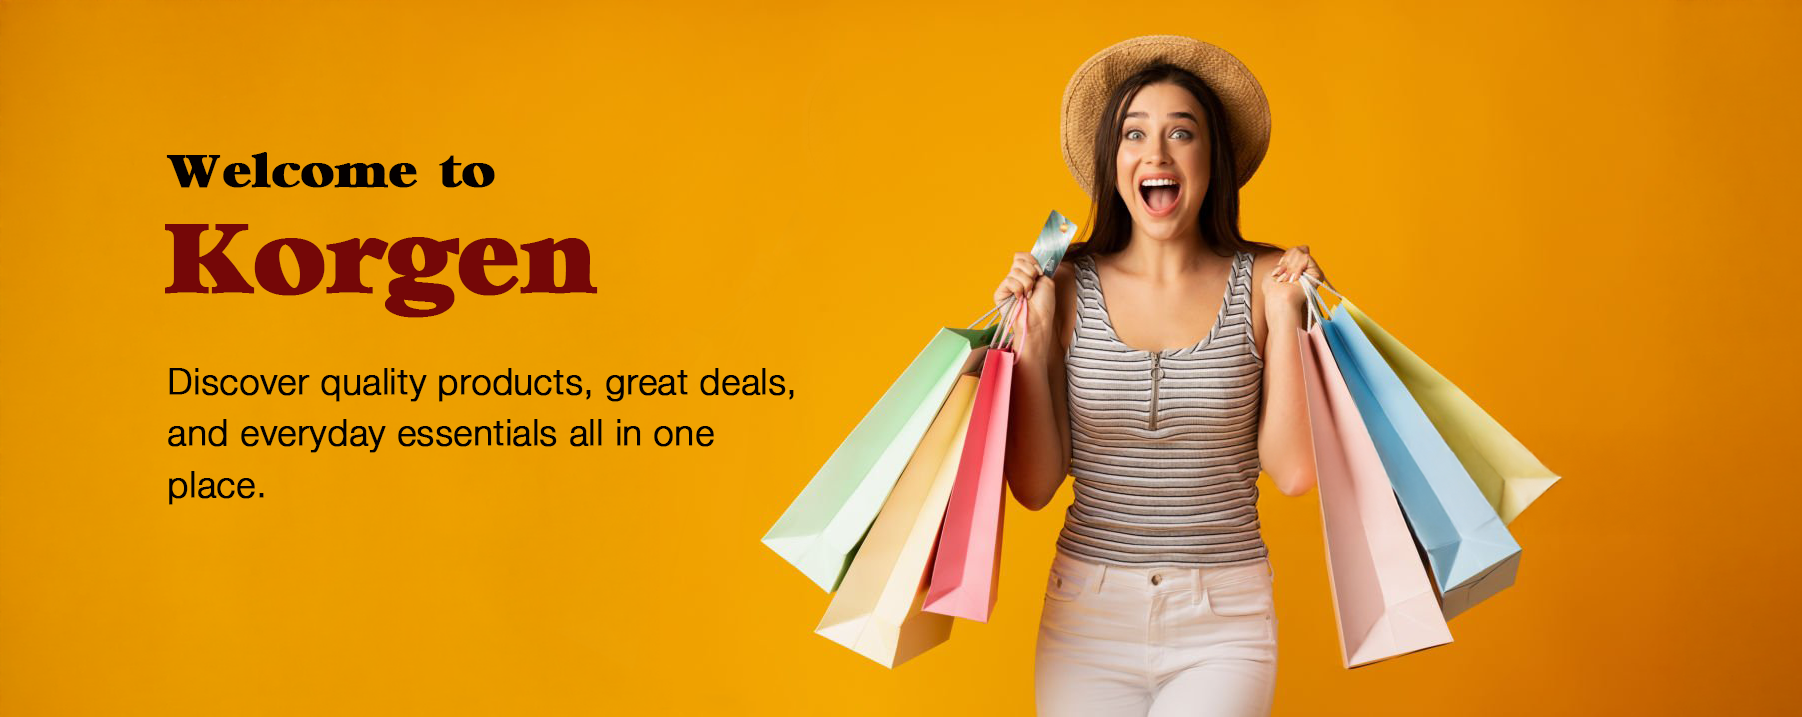
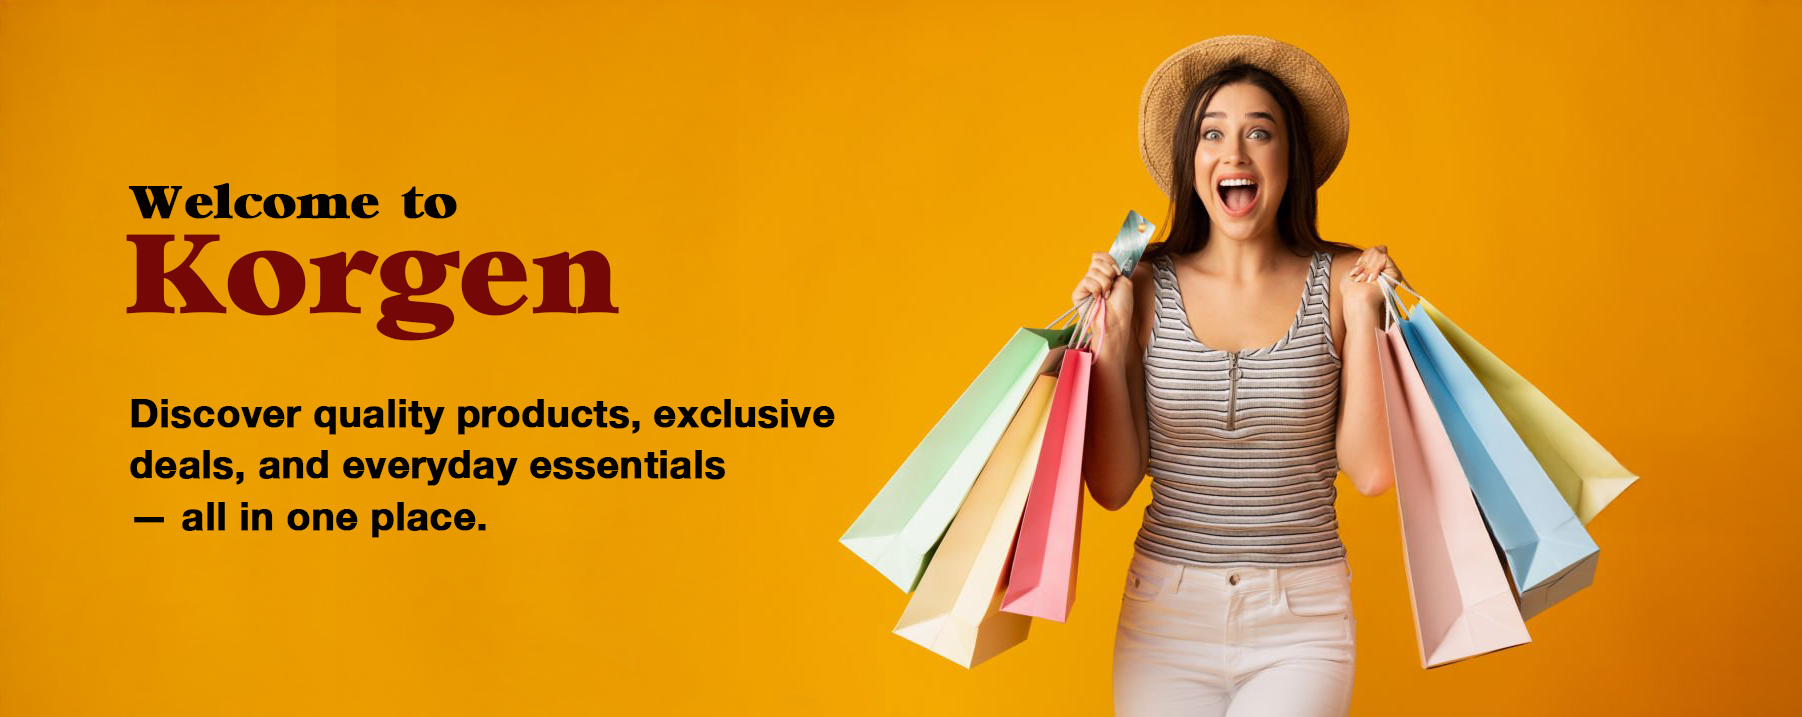
updated the hero image and product availability status

diff --git a/store/templates/store/store.html b/store/templates/store/store.html
@@ -217,13 +217,13 @@
 	                                                       {% include 'store/includes/rating_stars.html' with rating=product.averageReview rating_classes='text-warning mb-2' %}
 	                                                  </div>
 
-	                                                  <div class="mt-auto">
-                                                       <p class="mb-2">
-                                                            <span class="fw-bold">£{{ product.price }}</span>
-                                                       </p>
-                                                       <a href="{% url 'product_detail' product.category.slug product.slug %}"
-                                                            class="btn btn-warning w-100">View Details</a>
-                                                  </div>
+		                                                  <div class="mt-auto">
+	                                                       <p class="mb-2">
+	                                                            <span class="fw-bold">£{{ product.price }}</span>
+	                                                       </p>
+	                                                       {% url 'product_detail' product.category.slug product.slug as product_action_url %}
+	                                                       {% include 'store/includes/product_card_action.html' with action_url=product_action_url action_label='View Details' action_classes='btn btn-warning w-100' disabled_action_classes='btn btn-secondary w-100' %}
+	                                                  </div>
                                              </div>
                                         </div>
                                    </article>

diff --git a/home/templates/home/index.html b/home/templates/home/index.html
@@ -55,11 +55,11 @@
 	                                             {% include 'store/includes/rating_stars.html' with rating=product.averageReview rating_classes='text-warning text-center mb-2' %}
 	                                        </div>
 
-                                        <div class="mt-auto ">
-                                             <p class="mb-2 fw-bold text-center">£ {{ product.price }}</p>
-                                             <a href="{% url 'add_cart' product.id %}"
-                                                  class="price btn btn-warning w-100">Add to cart</a>
-                                        </div>
+	                                        <div class="mt-auto ">
+	                                             <p class="mb-2 fw-bold text-center">£ {{ product.price }}</p>
+	                                             {% url 'add_cart' product.id as product_action_url %}
+	                                             {% include 'store/includes/product_card_action.html' with action_url=product_action_url action_label='Add to cart' action_classes='price btn btn-warning w-100' disabled_action_classes='price btn btn-secondary w-100' %}
+	                                        </div>
                                    </div>
 
                               </div>

diff --git a/korgen_eCom/static/css/style.css b/korgen_eCom/static/css/style.css
@@ -83,21 +83,18 @@ header.section-header.fixed-top {
 
 /* Sold out flash */
 .sold-out-flash {
-    animation: sold-out-flash 0.1s ease-in-out infinite;
-    will-change: opacity, background-color, color;
+    animation: sold-out-flash 2s ease-in-out infinite;
+    display: inline-block;
+    /* will-change: opacity; */
 }
 
 @keyframes sold-out-flash {
     0%,
-    100% {
-        background-color: var(--bs-secondary);
-        color: #fff;
+    75% {
         opacity: 1;
     }
 
-    50% {
-        background-color: #dc3545;
-        color: #fff;
+    15% {
         opacity: 0.25;
     }
 }
@@ -211,5 +208,3 @@ textarea.form-control::placeholder {
 .rate > label:hover ~ input:checked ~ label {
     color: #c59b08;
 }
-
-

diff --git a/store/templates/store/product_detail.html b/store/templates/store/product_detail.html
@@ -4,25 +4,6 @@
 
 {% block content %}
 
-<style>
-     @keyframes sold-out-blink {
-
-          0%,
-          100% {
-               opacity: 1;
-          }
-
-          50% {
-               opacity: 0.25;
-          }
-     }
-
-     .sold-out-flash {
-          animation: sold-out-blink 2s ease-in-out infinite !important;
-          display: inline-block;
-     }
-</style>
-
 <!-- ========== Main content starts ========== -->
 
 <main class=" bg-opacity-10 bg-warning py-5">

diff --git a/store/templates/store/product_detail2.html b/store/templates/store/product_detail2.html
@@ -4,25 +4,6 @@
 
 {% block content %}
 
-<style>
-     @keyframes sold-out-blink {
-
-          0%,
-          100% {
-               opacity: 1;
-          }
-
-          50% {
-               opacity: 0.25;
-          }
-     }
-
-     .sold-out-flash {
-          animation: sold-out-blink 2s ease-in-out infinite !important;
-          display: inline-block;
-     }
-</style>
-
 <!-- ========== Main content starts ========== -->
 
 <main class=" bg-opacity-10 bg-warning py-5">

diff --git a/store/templates/store/includes/product_card_action.html b/store/templates/store/includes/product_card_action.html
@@ -1,0 +1,9 @@
+{% if product.stock > 0 %}
+     <a href="{{ action_url }}"
+          class="{{ action_classes }}">{{ action_label }}</a>
+{% else %}
+     <button type="button"
+          class="{{ disabled_action_classes }}"
+          disabled
+          aria-disabled="true">Sold Out</button>
+{% endif %}

diff --git a/templates/base.html b/templates/base.html
@@ -33,7 +33,7 @@
                type="text/css" />
 
           <link rel="stylesheet"
-               href="{% static 'css/style.css' %}?v=hero-cta-hover" />{% endblock extra_css %}
+               href="{% static 'css/style.css' %}?v=sold-out-smooth" />{% endblock extra_css %}
 
 
 
